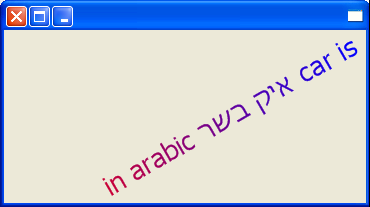
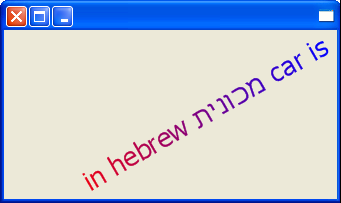
fix bidi text to have correct language and meaning

Changed region(s): [[0.2346, 0.1773, 0.9677, 0.9458], [0.0, 0.0, 1.0, 0.1478], [0.9971, 0.0, 1.0, 0.0296]]

diff --git a/R3_3/new_and_noteworthy.html b/R3_3/new_and_noteworthy.html
@@ -414,7 +414,7 @@
   <tr>
     <td width="30%" valign="top" align="left"><b>Advanced graphics supports mirroring</b></td>
     <td width="70%" valign="top">Advanced graphics now renders correctly in RTL mode. The snapshot below
-    shows Arabic text drawn using transforms and patterns on a Canvas.
+    shows bidirectional text drawn using transforms and patterns on a Canvas.
 	<p><img border="0" src="images/advanced-bidi.png" alt="Advanced graphics in RTL mode"></p>
     </td>
   </tr>
